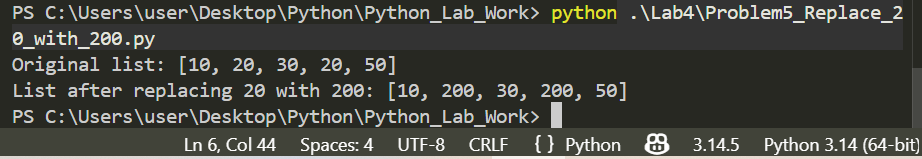
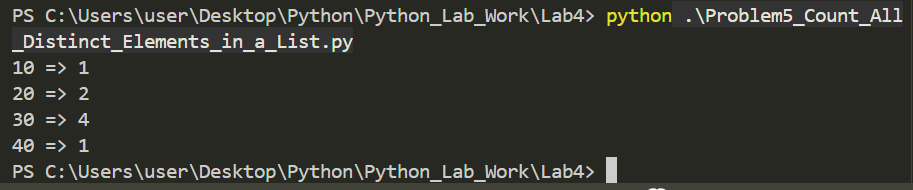
Here is the new code for lab4

diff --git a/Lab4/Problem4_Return_a_List_with_Distinct_Element.py b/Lab4/Problem4_Return_a_List_with_Distinct_Element.py
@@ -1,0 +1,14 @@
+def distinct_elements(lst):
+    unique = []
+
+    for item in lst:
+        if item not in unique:
+            unique.append(item)
+
+    return unique
+
+
+numbers = [1, 2, 3, 3, 3, 3, 4, 5]
+
+print("Original List:", numbers)
+print("Distinct List:", distinct_elements(numbers))

diff --git a/Lab4/Problem5_Count_All_Distinct_Elements_in_a_List.py b/Lab4/Problem5_Count_All_Distinct_Elements_in_a_List.py
@@ -1,0 +1,12 @@
+def count_distinct(lst):
+    counted = []
+
+    for item in lst:
+        if item not in counted:
+            print(item, "=>", lst.count(item))
+            counted.append(item)
+
+
+numbers = [10, 20, 30, 30, 30, 30, 20, 40]
+
+count_distinct(numbers)

diff --git a/Lab4/Problem6_Lambda_Function_to_Check_Whether_a_String_Starts_with_a_Given_Substring.py b/Lab4/Problem6_Lambda_Function_to_Check_Whether_a_String_Starts_with_a_Given_Substring.py
@@ -1,0 +1,9 @@
+starts_with = lambda string, sub: string.startswith(sub)
+
+text = input("Enter a string: ")
+substring = input("Enter the substring: ")
+
+if starts_with(text, substring):
+    print("The string starts with the given substring.")
+else:
+    print("The string does not start with the given substring.")